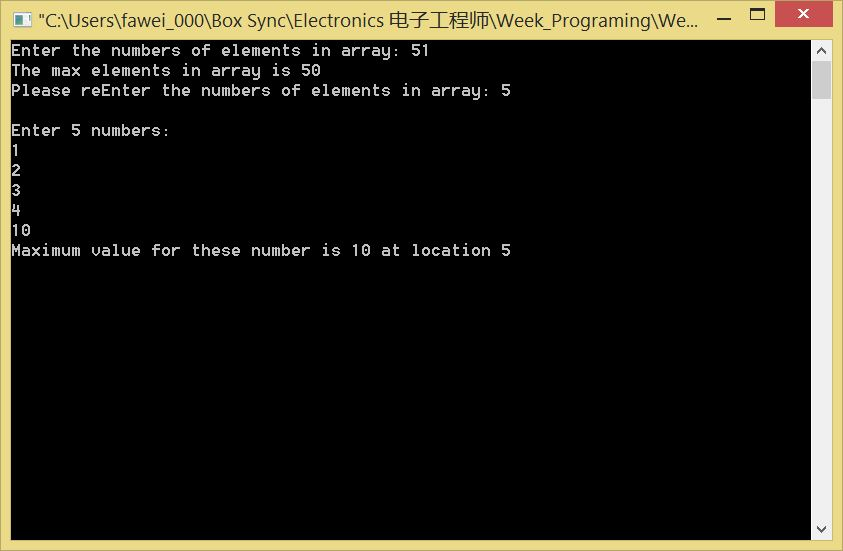
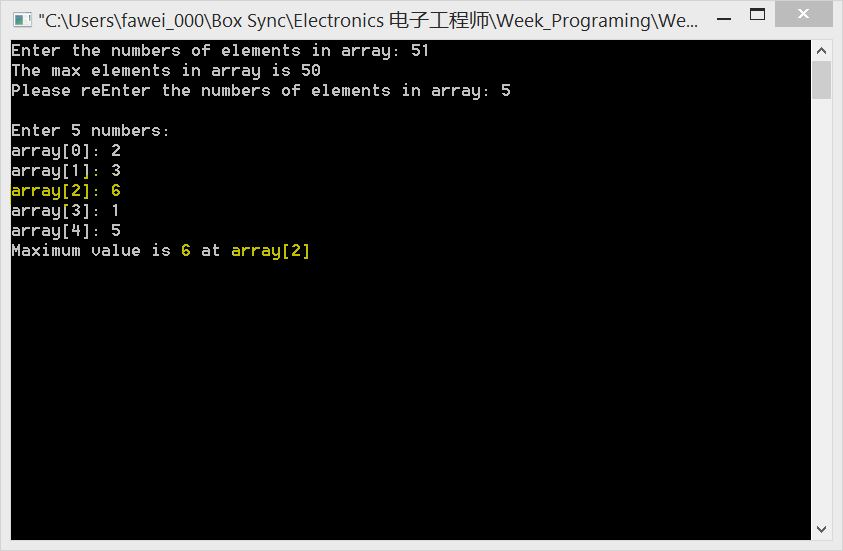
31. Max Value in array

Changed region(s): [[0.0, 0.0, 1.0, 1.0], [0.1851, 0.4319, 0.6168, 0.4936]]

diff --git a/31. Max Value in array/main.c b/31. Max Value in array/main.c
@@ -18,7 +18,7 @@ How it work: First, we assume that maximum element occurs at the beginning of ar
 
 int main()
 {
-    int array[50],max,size,i,location=1;
+    int array[50],max,size,i,location;
 
     printf("Enter the numbers of elements in array: ");
     scanf("%d",&size);
@@ -46,7 +46,7 @@ int main()
                 location = i; // Find the location of index of this max value
             }
         }
-        printf("Maximum value is %d at location array[%d]", max, location);
+        printf("Maximum value is %d at array[%d]", max, location);
 
     return 0;
 }
